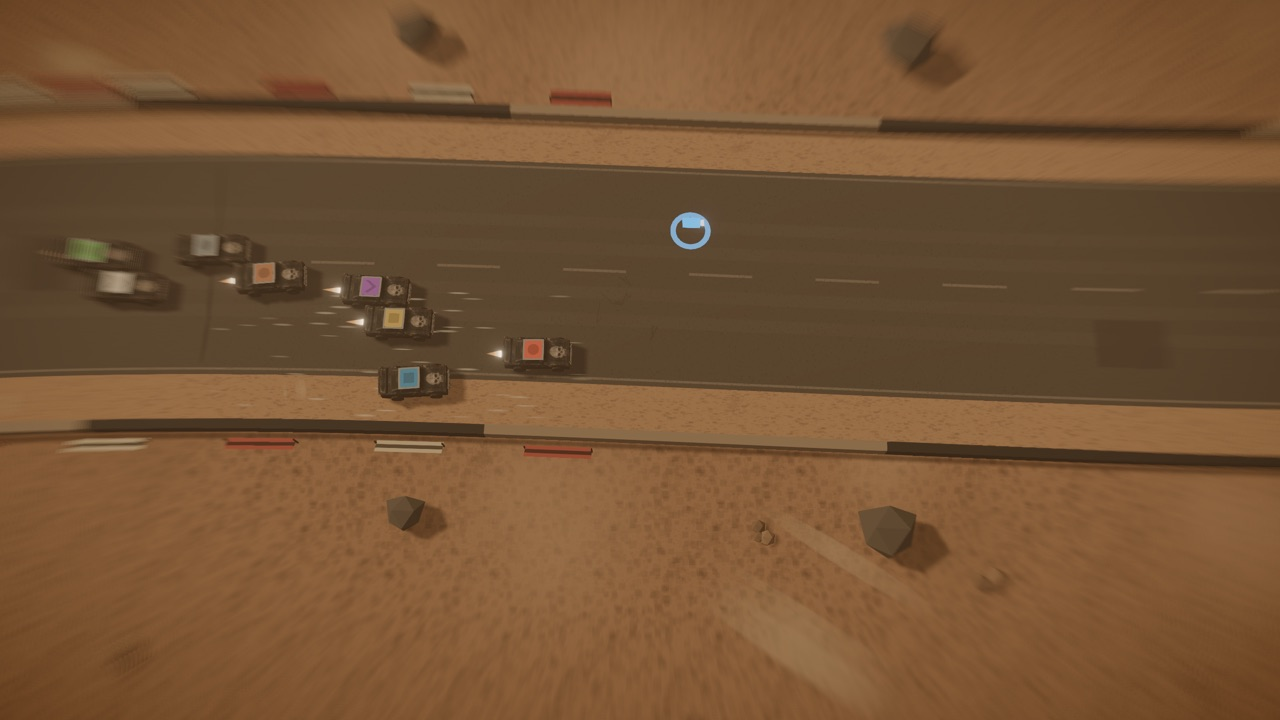
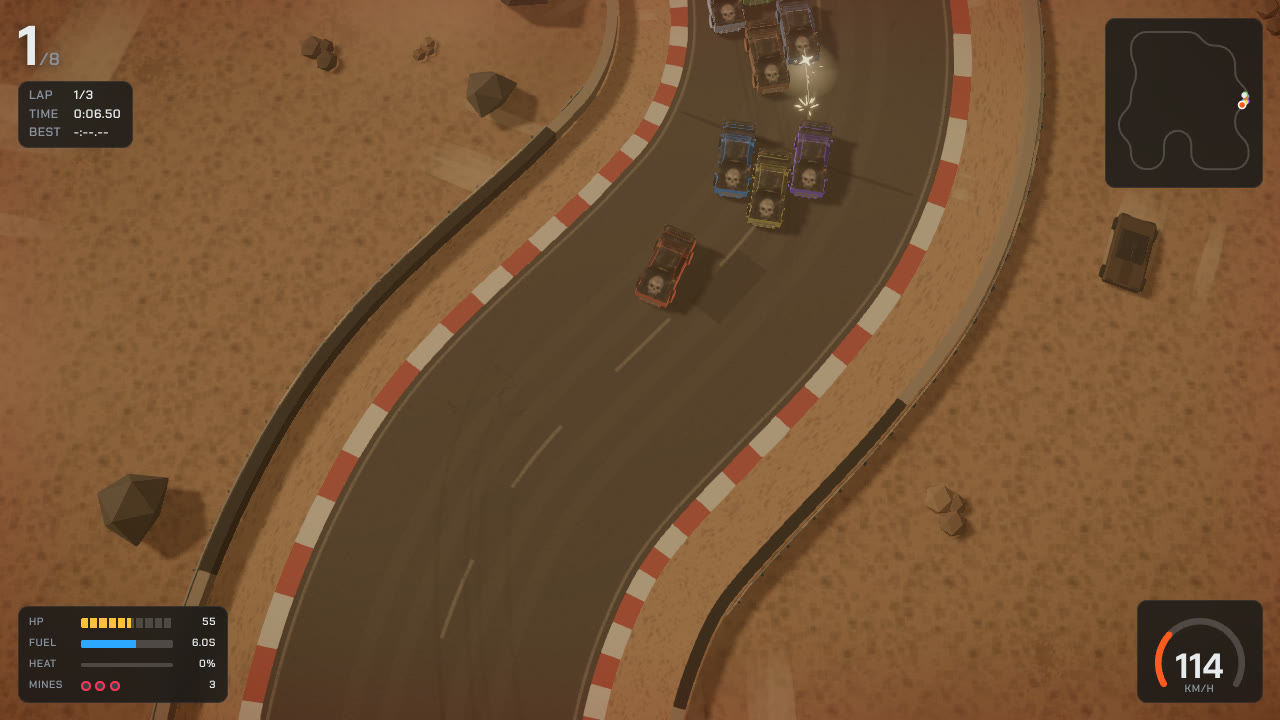
README: v0.10.0 screenshots (title art, story scenes, tight tracks), story and music features, credits

diff --git a/README.md b/README.md
@@ -1,25 +1,29 @@
 # Wreckline
 
-Top-down combat racer in the browser, in the spirit of Death Rally (1996): race, shoot, drop mines, wreck your rivals, buy a better car.
+Top-down combat racer in the browser, in the spirit of Death Rally (1996): race, shoot, drop mines, wreck your rivals, buy a better car, and win your family's garage back from THE WARDEN.
 
 **Play it: https://underscorelog.github.io/wreckline/**
 
-![Eight cars leave the grid at Dust Bowl, guns firing, rocket fuel blurring the edges](docs/screenshots/race-desert.jpg)
+![Title screen: the rusty RAVEN chased through a burning city under THE WARDEN's helmet](docs/screenshots/title.jpg)
 
 | | |
 |---|---|
-| ![Neon Mile at night](docs/screenshots/race-night.jpg) | ![Frostbite Pass in the snow](docs/screenshots/race-snow.jpg) |
-| Neon Mile: dark tracks light up with headlight beams and lamp pools | Frostbite Pass: the pack on rocket fuel through the snow |
-| ![The 8 cars](docs/screenshots/cars.jpg) | ![Shop](docs/screenshots/shop.jpg) |
-| 8 cars, each a 3D model; in a race a soft rim glow shows the driver's colour | Career shop: upgrades, supplies and cars |
+| ![Dust Bowl](docs/screenshots/race-desert.jpg) | ![Neon Mile at night](docs/screenshots/race-night.jpg) |
+| Dust Bowl: the pack fights through a chain of desert bends | Neon Mile at night: the pack bunched up round a city-block corner |
+| ![Frostbite Pass](docs/screenshots/race-snow.jpg) | ![Shop](docs/screenshots/shop.jpg) |
+| Frostbite Pass: the pack through the snow switchbacks | Career shop: upgrades, supplies and cars |
+| ![Story intro](docs/screenshots/story-intro.jpg) | ![Track scene](docs/screenshots/story-track.jpg) |
+| The story: MAZ, the family mechanic, and the garage THE WARDEN took | Before every career race: a track scene, with taunts from the rivals in it |
 
 ## Features
 
 - 8 cars from the RAVEN starter to the WRAITH of the boss, THE WARDEN, each with its own handling, armour and engine sound
-- 10 tracks across 6 themes: desert, city at night, snow, quarry, docks and scrapyard
+- 10 tight Death Rally style tracks (a chain of short bends and hairpins, 24-29 s laps) across 6 themes: desert, city at night, snow, quarry, docks and scrapyard
 - Front gun with overheat, mines, rocket fuel boost, bumper spikes for ramming; pickups for cash, repairs, mines and fuel
-- Career: pick easy, medium or hard races, earn prize money and points, repair damage that carries between races, upgrade or buy a new car, sabotage the leading rival, then beat THE WARDEN
-- Quick race on any track
+- Career: pick easy, medium or hard races on three different tracks each round, earn prize money and points, repair damage that carries between races, upgrade or buy a new car, sabotage the leading rival, then beat THE WARDEN
+- Story: THE WARDEN took the family's Red Lantern Garage; six painted story scenes at rank milestones and a scene for every track before each career race, with typed-out dialogue (MAZ the mechanic, four rival lieutenants, THE WARDEN); SPACE goes on, ESC skips
+- Beat a car in a career race to unlock it in the shop; quick race on any track with any of the 8 cars
+- Background music: six race tracks and a menu track, mixed under the engines and guns, with its own volume slider
 - AI drivers that follow a racing line, fight, avoid wrecks and use pickups
 - Keyboard and gamepad, menus included
 - Deterministic simulation: same seed and inputs, same race
@@ -43,7 +47,7 @@ Top-down combat racer in the browser, in the spirit of Death Rally (1996): race,
 | Language and build | TypeScript 7.0, Vite 8.3, React 19.3 for menus and HUD |
 | Rendering | three.js 0.186 (WebGL), postprocessing 6.39 (bloom, motion blur at the screen edges) |
 | Physics | Rapier 2D 0.21, deterministic-compat build (WASM) |
-| Audio | Web Audio API: per-car synth engines, recorded engine loops crossfaded by rpm and load, mixed sample effects |
+| Audio | Web Audio API: per-car synth engines, recorded engine loops crossfaded by rpm and load, mixed sample effects, streamed Ogg Opus music on its own bus |
 | Tests | Vitest 5.0 |
 | Hosting | GitHub Pages, deployed by GitHub Actions on every push to `main` |
 
@@ -51,9 +55,11 @@ Top-down combat racer in the browser, in the spirit of Death Rally (1996): race,
 - **Module boundaries.** `src/sim`, `src/shared`, `src/content` and `src/meta` never import three.js, React or the DOM. Render, audio and UI only read snapshots. `npm run check:boundaries` enforces this.
 - **Frame loop.** Input is polled once per frame, the sim steps up to 5 times, then the renderer interpolates between the last two snapshots. Audio and the HUD (15 Hz) read the same snapshots and the sim's event list.
 - **Car models.** Modelled in Blender from concept sheets, then imported by `scripts/assets/importCars.mjs`: glTF-Transform and meshoptimizer's simplifier (about 1900-2300 triangles per car), textures resized and converted to WebP with sharp. All 8 cars are 1.36 MB together.
-- **Tracks.** Built from data: a centreline, width, props and pickups per track in `src/content/tracks/`, with theme dressing done at render time.
+- **Tracks.** Built from data: a corner list rounded into a centreline, width, props and pickups per track in `src/content/tracks/`, with theme dressing done at render time. A shape metric (`trackShape`) and a test keep every track "Death Rally tight": at most 25% near-straight, no straight over 80 m, at least 10 corners.
+- **Story.** Lines and triggers are data (`src/content/story.ts`, written in `specs/story.md`); `src/meta/story.ts` picks the scene from the save and the race offer with no randomness. The 17 painted frames were generated with Google Gemini from the prompts in `specs/story-art-prompts.md` and converted to WebP by `scripts/assets/importStory.mjs`.
+- **Music.** `scripts/sfx/importMusic.mjs` cuts each CC0 track to a seamless loop, normalises it with a BS.1770 loudness meter and encodes Opus; at default volume the music sits about 12 LU under the race sound.
 - **Engine sound.** Each car has a synth voice (fake gearbox, sub-octave, filtered exhaust noise, idle wobble, supercharger whine). BLAZE, ICEBERG and TITAN instead play CC0 recordings cut into rpm and load loops by `scripts/sfx/importEngines.mjs`.
-- **Budgets.** 60 fps at 1920x1080, under 150 draw calls, under 2.5 MB gzip in total (about 1.86 MB now, Rapier's WASM included). `npm run build` fails over the size budget.
+- **Budgets.** 60 fps at 1920x1080, under 150 draw calls, under 2.5 MB gzip in total (about 1.87 MB now, Rapier's WASM included; music and story images stream from `public/` on demand). `npm run build` fails over the size budget.
 - **Spec-driven.** `SPEC.md` is the build spec. `specs/` holds the contracts, content tables, art direction and one file per work package. `docs/tuning-log.md` records every tuned value and why it changed.
 
 ### Source layout
@@ -75,6 +81,7 @@ src/
 
 - Sound effects: Pixabay, under the Pixabay Content License. Engine recordings: Freesound, CC0. Sources in `docs/sfx-sources.md`.
 - Music: OpenGameArt, CC0, by MintoDog, Alexander Ehlers (tricksntraps), cynicmusic, Kistol and Sudocolon. Sources in `docs/sfx-sources.md`.
+- Story and title art: generated with Google Gemini from our own prompts (`specs/story-art-prompts.md`).
 - Fonts: Chakra Petch and Inter via Fontsource.
 
 ## Run
